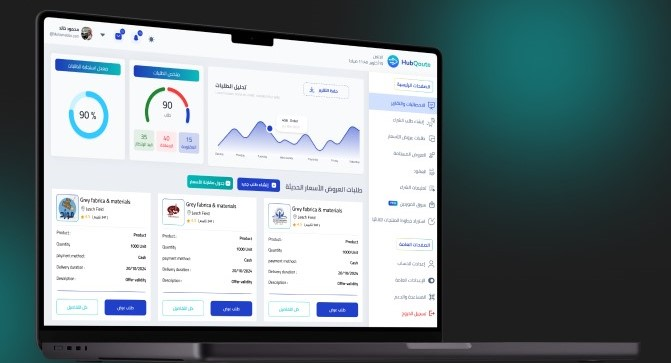
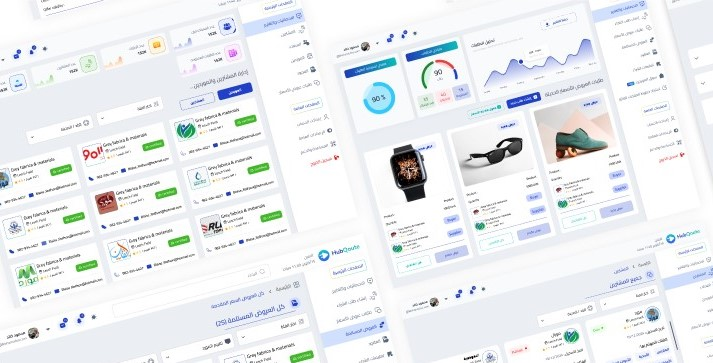
full rexponsive tablet and mobile

diff --git a/src/sections/Home.jsx b/src/sections/Home.jsx
@@ -14,15 +14,13 @@ function Home() {
     const lng = cookies.get("i18next")
 
     return (
-        <section className="flex justify-between items-center max-[768px]:flex-col relative" id="home">
-            <div className="bg absolute top-0 left-0 -z-10 w-full h-screen opacity-[0.2] pointer-events-none">
+        <section className="flex justify-between items-center max-[768px]:flex-col relative min-[767px]:px-64" id="home">
+            <div className="bg absolute top-0 left-0 -z-10 w-full h-screen opacity-[0.2] pointer-events-none max-[767px]:hidden">
                 <LazyLoadImage
                     id='bg'
                     alt='bg'
                     src={HomePhoto.bg}
                     className="w-full"
-                    delayMethod="debounce"
-                    delayTime="100"
                 />
                 <BlurhashCanvas
                     hash={HomePhoto.bgHash}
@@ -36,7 +34,7 @@ function Home() {
 
                 <h1 className="text-[5.6rem] font-bold leading-[1.3]  max-[500px]:text-[2.5rem]">{t("name")}</h1>
 
-                <h3 className="mb-8 text-[3.2rem] font-bold  max-[500px]:text-[2rem]">{t("And")}{" "}
+                <h3 className="mb-8 text-[3.2rem] font-bold  max-[500px]:text-[2rem] max-[560px]:mb-4">{t("And")}{" "}
                     <TypeAnimation
                         sequence={[
                             'Front End Developer',
@@ -53,7 +51,7 @@ function Home() {
                     />
                 </h3>
 
-                <p className="txt text-start p-0 w-[57%] text-4xl leading-snug">
+                <p className="txt text-start p-0 w-[57%] text-4xl leading-snug max-[767px]:text-center max-[767px]:w-11/12 max-[767px]:mx-auto">
                     {t("where and age")}
                 </p>
 
@@ -75,14 +73,12 @@ function Home() {
                     alt='my-photo'
                     src={HomePhoto.myphoto}
                     className="w-full h-full rounded-[16px] z-10"
-                    delayMethod="debounce"
-                    delayTime="100"
                     data-aos='zoom-in'
                     data-aos-delay="300" 
                 />
             </div>
 
-            <a href="#expertise" className="absolute left-1/2 bottom-7 -translate-x-1/2 text-[4rem] text-c2">
+            <a href="#expertise" className="absolute left-1/2 bottom-7 -translate-x-1/2 text-[4rem] text-c2 max-[560px]:bottom-0">
                 <i className='bx bx-chevrons-down'></i>
             </a>
         </section>

diff --git a/src/sections/Expertise.jsx b/src/sections/Expertise.jsx
@@ -65,7 +65,7 @@ function Expertise() {
                 seconderyText={t('expertiseText')}
             />
 
-            <div dir='ltr' className="flex justify-between items-center pt-14 gap-12">
+            <div dir='ltr' className="flex justify-between items-center pt-14 gap-12 max-[767px]:px-10">
                 {["react" , "redux" , "javascript" , "html5" , "css3"].map((item , index) => (
                     <div key={index} className="text-center" data-aos="fade-up" data-aos-delay={`${index + 1}00`}>
                         <i className={`bx bxl-${item} text-c2 text-9xl`} />
@@ -74,15 +74,15 @@ function Expertise() {
                 ))}
             </div>
 
-            <h2 className="font-bold text-5xl pt-16" data-aos='fade-up'>
+            <h2 className="font-bold text-5xl pt-16 max-[560px]:text-center max-[560px]:text-3xl" data-aos='fade-up'>
                 {t('expertiseListTitle')}
             </h2>
 
-            <div dir="ltr" className="border-2 border-c3 border-solid divide-y-[0.5px] rounded-xl divide-solid flex flex-col mt-16 w-11/12">
+            <div dir="ltr" className="border-2 border-c3 border-solid divide-y-[0.5px] rounded-xl divide-solid flex flex-col mt-16 max-[767px]:mt-10 w-11/12 max-[767px]:w-full">
                 {
                     technologie.map((item , index) => (
-                        <div className="px-6 py-7 flex items-center justify-between" key={item.name} data-aos="fade-up">
-                            <h2 className="text-4xl">{item.name}</h2>
+                        <div className="px-6 py-7 flex items-center justify-between max-[767px]:flex-col max-[767px]:py-4" key={item.name} data-aos="fade-up">
+                            <h2 className="text-4xl max-[767px]:mb-2">{item.name}</h2>
 
                             <div className="flex text-2xl txt p-0">
                                 {item.technologies}

diff --git a/src/sections/Contact.jsx b/src/sections/Contact.jsx
@@ -39,7 +39,7 @@ function Contact() {
             <div className='flex flex-col justify-between items-center gap-10 px-6 mt-2 rounded-xl'>
                 <form
                     onSubmit={handleSubmit(onSubmit)}
-                    className='w-[400px] text-center'
+                    className='w-[400px] text-center max-[560px]:w-11/12'
                     data-aos='zoom-in'
                 >
                     <div className="flex-col flex">
@@ -51,7 +51,7 @@ function Contact() {
                     <input type="submit" value={t("send")} className="w-full p-4 rounded-md bg-c2 font-extrabold text-3xl cursor-pointer" />
                 </form>
 
-                <div>
+                <div className='max-[560px]:mt-10'>
                     <a data-aos='fade-up' data-aos-delay='100' className="inline-flex cursor-pointer justify-center items-center w-16 h-16 bg-transparent border-c2 text-[2rem] text-c2 ml-0 mr-6 rounded-[50%] border-[0.2rem] border-solid hover:bg-c2 hover:text-c1" target="_blank" href="https://t.me/abdullahasson"><i className="bx bxl-telegram" /></a>
                     <a data-aos='fade-up' data-aos-delay='200' className="inline-flex cursor-pointer justify-center items-center w-16 h-16 bg-transparent border-c2 text-[2rem] text-c2 ml-0 mr-6 rounded-[50%] border-[0.2rem] border-solid hover:bg-c2 hover:text-c1" target="_blank" href="https://wa.me/963932680992"><i className="bx bxl-whatsapp" /></a>
                     <a data-aos='fade-up' data-aos-delay='300' className="inline-flex cursor-pointer justify-center items-center w-16 h-16 bg-transparent border-c2 text-[2rem] text-c2 ml-0 mr-6 rounded-[50%] border-[0.2rem] border-solid hover:bg-c2 hover:text-c1" target="_blank" href="https://github.com/abdullahasson"><i className='bx bxl-github' ></i></a>

diff --git a/src/assets/index.jsx b/src/assets/index.jsx
@@ -5,26 +5,24 @@ import MyPhoto from "./image/MyPhoto.png"
 import HooBank from "./image/HooBank.png"
 import BrainWave from "./image/brainwave.png"
 import Hubqoute from "./image/hubqoute.jpg"
-import ToDo from "./image/ToDo(1).jpg"
 
 
 export const HomePhoto = {
     myphoto: MyPhoto,
     bg: bg,
 
-    // hashs
+    // Hashs
     myphotoHash: "L66*%X4T?cM|?w9Ex]o#tQW?jEt7",
-    bgHash: "LDFi40m6^%%NGdZfx_IoMvx]S*Dh"
+    bgHash: "|DFYfQm6^%%NR.NGRjn~WBGdZfx_IoozV?jYt8j[Mcx]S*DhXoRPxZxtfkROo~ROj]o#I9%hnhV?IVNIM_yEi]ROtmRjkCIpR.V@xaV?o~jERPt8IUWXozj[RPogjskCjEf,RkRja#ofofWVWAaxR+WBWXWCaxayofj?WV"
 }
 
 export const projectsPhoto = {
     hoobank: HooBank,
     brainwave: BrainWave,
-    todo: ToDo,
     hubqoute: Hubqoute,
     
-    // Hash
-    hoobankHash: "L66*%X4T?cM|?w9Ex]o#tQW?jEt7",
-    brainwaveHash: "L47n8+-;0x-pD%IoNGt70K-;~DE1",
-    hubqouteHash: "LnJbHn~q4nIUbbn%ofWV9FM{x]of"
+    // Hashs
+    hoobankHash: "|66*%W4T.9M|%Mg5xuIA-=?w9Ex]o#V?o3kAWCoztQW?jEt7bIRjkDi_V@R4bckCozt8MdtRozaet7bHe:jEo#RjoLozV?%gRPNGoft7WCV?o}WBx]a#aKjFbaX8V@j@WBxaRjk9ogV@oLWBbbkWx]RPoMofV@t7RjjZkC",
+    brainwaveHash: "|47dkA-;0x-p~C4.0K-VxED%M{NGt7n%WBofWAae0K-;~DE10d%2-VD%Iox]of$+ozx]oMM_axf,=yR%55jE-VIoIp%1xaVrt7yDoLMdoekXRjRP9ZRP%1RkS2-p%3IoWB%gaeMdt7o~M{i_%MbcRiM{Rjxaj[NHt6%2R+",
+    hubqouteHash: "|6RW6ttL%0E1-;xuRlE2oztSt8xZR*tQsqofNGM|-?s;oc-:InRjV@xus:~paIIp%LMxo#R*s:%1xAWBbci_sDozbEWC%1-o%MR*n#oNM{W=j=s+tPkCIVxbxuM_fk%2Ri-=V[V?%M%1IoRjkBoztRRiRnfNInkCada}t7"
 }

diff --git a/src/components/Cards/ProjectCard.jsx b/src/components/Cards/ProjectCard.jsx
@@ -13,13 +13,10 @@ const ProjectCard = ({data}) => {
           href={data.projectDemo}
         ></a>
 
-
         <LazyLoadImage
             src={data.img} 
             alt={`${data.title}-image`} 
             className="absolute z-0 left-0 top-0 w-full h-full transition-[2s] group-hover:scale-110 group-hover:-rotate-2" 
-            delayMethod="debounce"
-            delayTime="100"
         />
         <BlurhashCanvas
             hash={data.hash}
@@ -27,7 +24,7 @@ const ProjectCard = ({data}) => {
         /> 
 
 
-        <div className="z-10 text-xl absolute bottom-0 left-0 pb-8 pl-8 bg-gradient-to-t from-slate-900 from-0% via-slate-700 via-50% to-transparent to-100% ">
+        <div className="z-10 text-xl w-full absolute bottom-0 left-0 pb-8 pl-8 bg-gradient-to-t from-slate-900 from-0% via-slate-700 via-50% to-transparent to-100% ">
             <h3 className="text-5xl font-extrabold mb-3">{data.title}</h3>
             <p className='txt text-[16px] w-5/6 text-start m-0 p-0'>{data.text}</p>
         </div>

diff --git a/src/Pages/LandingPage.jsx b/src/Pages/LandingPage.jsx
@@ -4,7 +4,7 @@ import Header from '../components/Header'
 import Home from '../sections/Home'
 import Expertise from '../sections/Expertise'
 import Projects from '../sections/Projects'
-import Reviews from '../sections/Reviews'
+// import Reviews from '../sections/Reviews'
 import Contact from '../sections/Contact'
 import Footer from '../sections/Footer'
 
@@ -18,9 +18,9 @@ function LandingPage() {
             <Expertise />
             <hr />
             <Projects />
-            {/* <hr />
-            <Reviews /> */}
             <hr />
+            {/* <Reviews />
+            <hr /> */}
             <Contact /> 
             <hr />
             <Footer />

diff --git a/src/components/Title.jsx b/src/components/Title.jsx
@@ -22,7 +22,7 @@ const Title = ({ text , seconderyText }) => {
             </div>
             
             <div className="mt-4">
-                <p className="text-c3 text-center pt-11 text-5xl font-normal leading-[1.2]" data-aos='fade-up'> 
+                <p className="text-c3 text-center pt-11 text-5xl font-normal leading-[1.2] max-[560px]:text-2xl max-[560px]:pt-5 max-[767px]:pt-4" data-aos='fade-up'> 
                     {seconderyText}
                 </p>
             </div>

diff --git a/src/components/Cards/ReviewsCard.jsx b/src/components/Cards/ReviewsCard.jsx
@@ -16,8 +16,6 @@ const ReviewsCard = ({ data }) => {
                     src={data.clientPhoto} 
                     alt={data.clientPhoto} 
                     className="rounded-full w-32 h-32"
-                    delayMethod="debounce"
-                    delayTime="100"
                 />
                 <div className="text-start">
                     <h3 className="font-bold text-4xl mb-2">{data.clientName}</h3>

diff --git a/src/Layouts/CardContainer.jsx b/src/Layouts/CardContainer.jsx
@@ -6,7 +6,7 @@ const CardContainer = ({
 }) => {
 
   return (
-    <div className={`grid gap-10`} style={{gridTemplateColumns: `repeat(${columnsNumber}, minmax(0, 1fr))`}}>
+    <div className={`grid ${columnsNumber == 2 ? 'grid-cols-2 max-[560px]:grid-cols-1' : 'grid-cols-1'} gap-10`}>
         {
             data.map((item , i) => (
                 <div className=""  key={i}>

diff --git a/tailwind.config.js b/tailwind.config.js
@@ -36,7 +36,7 @@ export default {
         },
 
         "section": {
-          "@apply min-h-[100vh] pt-[10rem] px-64 pb-[5rem]": {},
+          "@apply min-h-[100vh] pt-[10rem] px-64 pb-[5rem] max-[560px]:px-10 max-[767px]:px-10": {},
         },
 
         "hr": {

diff --git a/src/sections/Footer.jsx b/src/sections/Footer.jsx
@@ -1,6 +1,6 @@
 const Footer = () => {
   return (
-    <div className="p-16 w-full">
+    <div className="p-16 w-full max-[560px]:px-10">
         <p className="txt p-0 text-2xl">
         © Copyright 2024 | Abdullah Hasson | All Rights Reserved
         </p>
